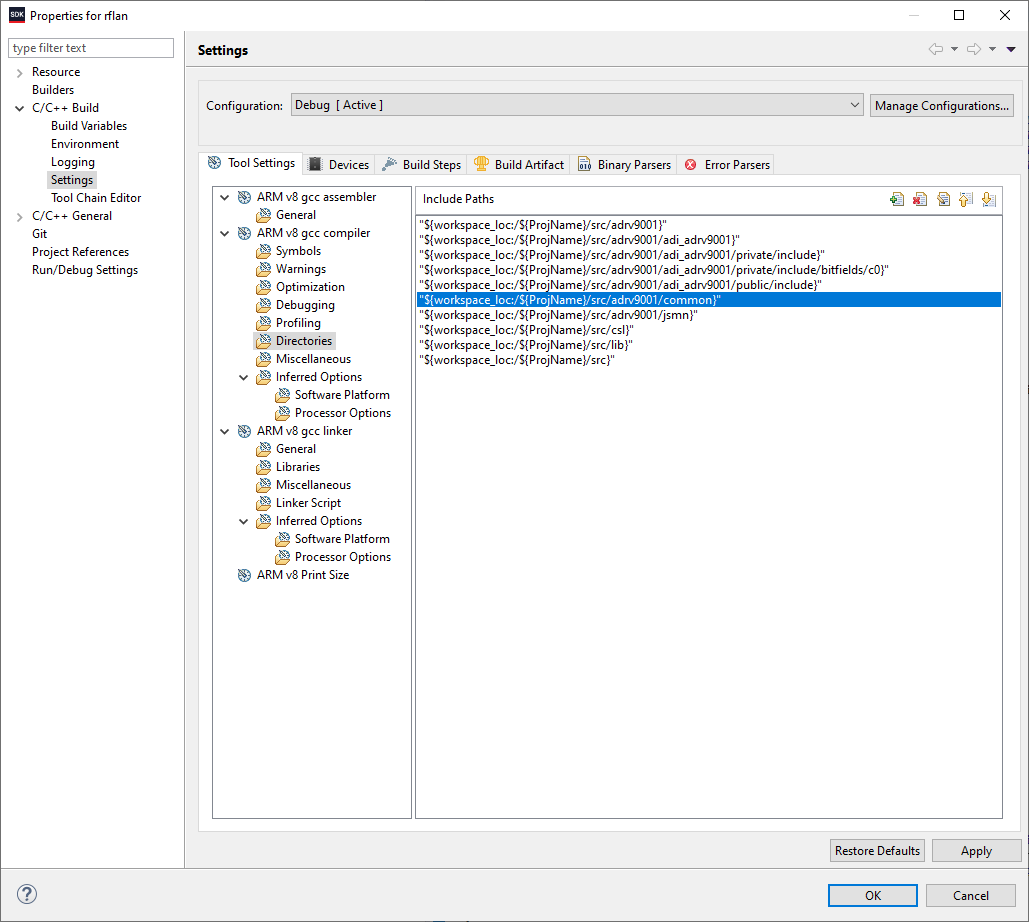
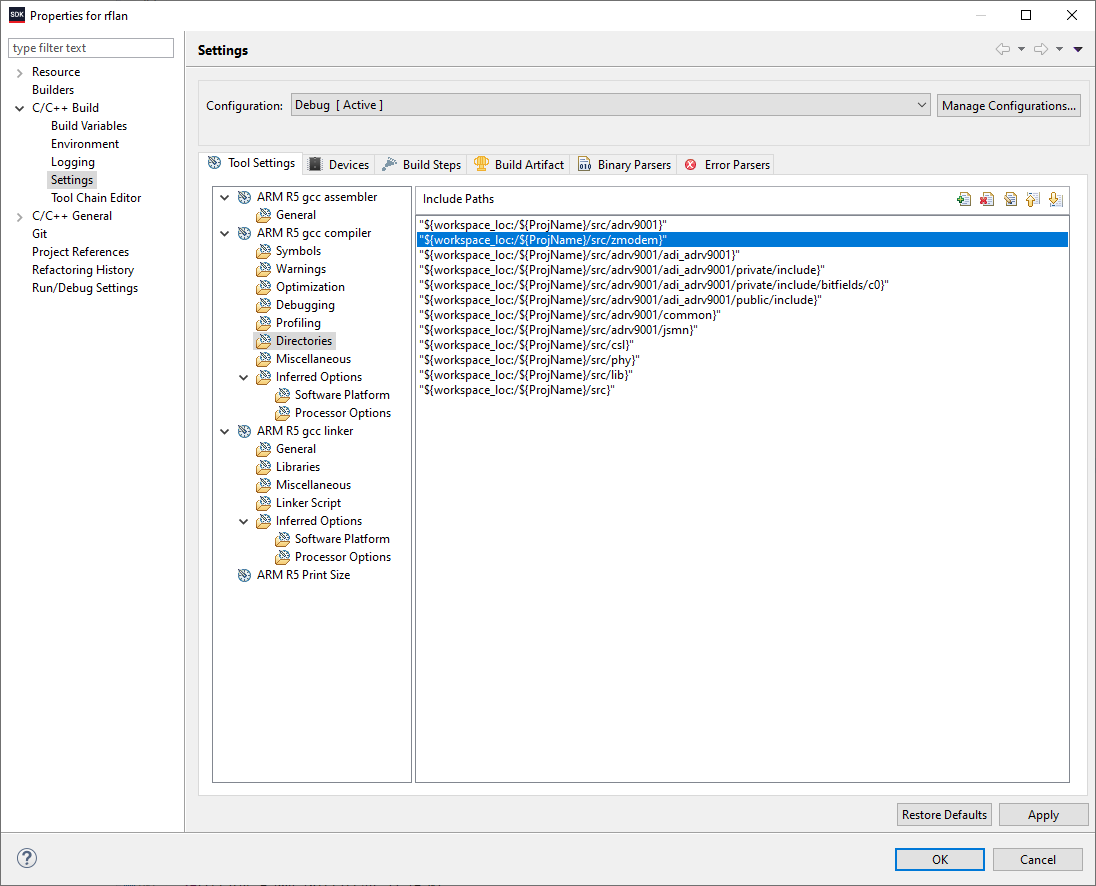
removing extra outbyte function

diff --git a/rflan/src/app_cli.c b/rflan/src/app_cli.c
@@ -70,19 +70,6 @@ static char             AppCliCmdBuf[ APP_CLI_CMD_BUF_SIZE ];
 static CliCmd_t const  *AppCliCmdList[ APP_CLI_CMD_LIST_SIZE ];
 static XUartPs          AppCliUart;
 
-void outubyte(u8 c)
-{
-	if(AppCliTxCharQueue != NULL)
-	{
-		BaseType_t xHigherPriorityTaskWoken = pdFALSE;
-
-		/* Send Byte to Tx Queue */
-		xQueueSendFromISR( AppCliTxCharQueue, &c, &xHigherPriorityTaskWoken );
-
-		portYIELD_FROM_ISR(xHigherPriorityTaskWoken);
-	}
-}
-
 void outbyte(char c)
 {
 	if(AppCliTxCharQueue != NULL)

diff --git a/rflan/src/zmodem/zmodem.c b/rflan/src/zmodem/zmodem.c
@@ -37,8 +37,6 @@ typedef struct
 
 static ZMODEM_CTRL zmodem_ctrl;                             // The ZMODEM control block (external)
 
-extern void outubyte(u8 c);
-
 //--------------------------------------------------------------------------
 // Function:    ZModem_Write
 //
@@ -52,7 +50,7 @@ extern void outubyte(u8 c);
 static SHORT ZModem_Write(UBYTE data)
 {
   if (zmodem_ctrl.ready && zmodem_ctrl.run)
-    outubyte(data);
+    printf("%c",data);
 
   return (0);
 }

diff --git a/docs/RflanBuild/RflanBuild.md b/docs/RflanBuild/RflanBuild.md
@@ -90,6 +90,7 @@ Add the directories as shown below.
 
 ```
 "${workspace_loc:/${ProjName}/src/adrv9001}"
+"${workspace_loc:/${ProjName}/src/zmodem}"
 "${workspace_loc:/${ProjName}/src/adrv9001/adi_adrv9001}"
 "${workspace_loc:/${ProjName}/src/adrv9001/adi_adrv9001/private/include}"
 "${workspace_loc:/${ProjName}/src/adrv9001/adi_adrv9001/private/include/bitfields/c0}"
